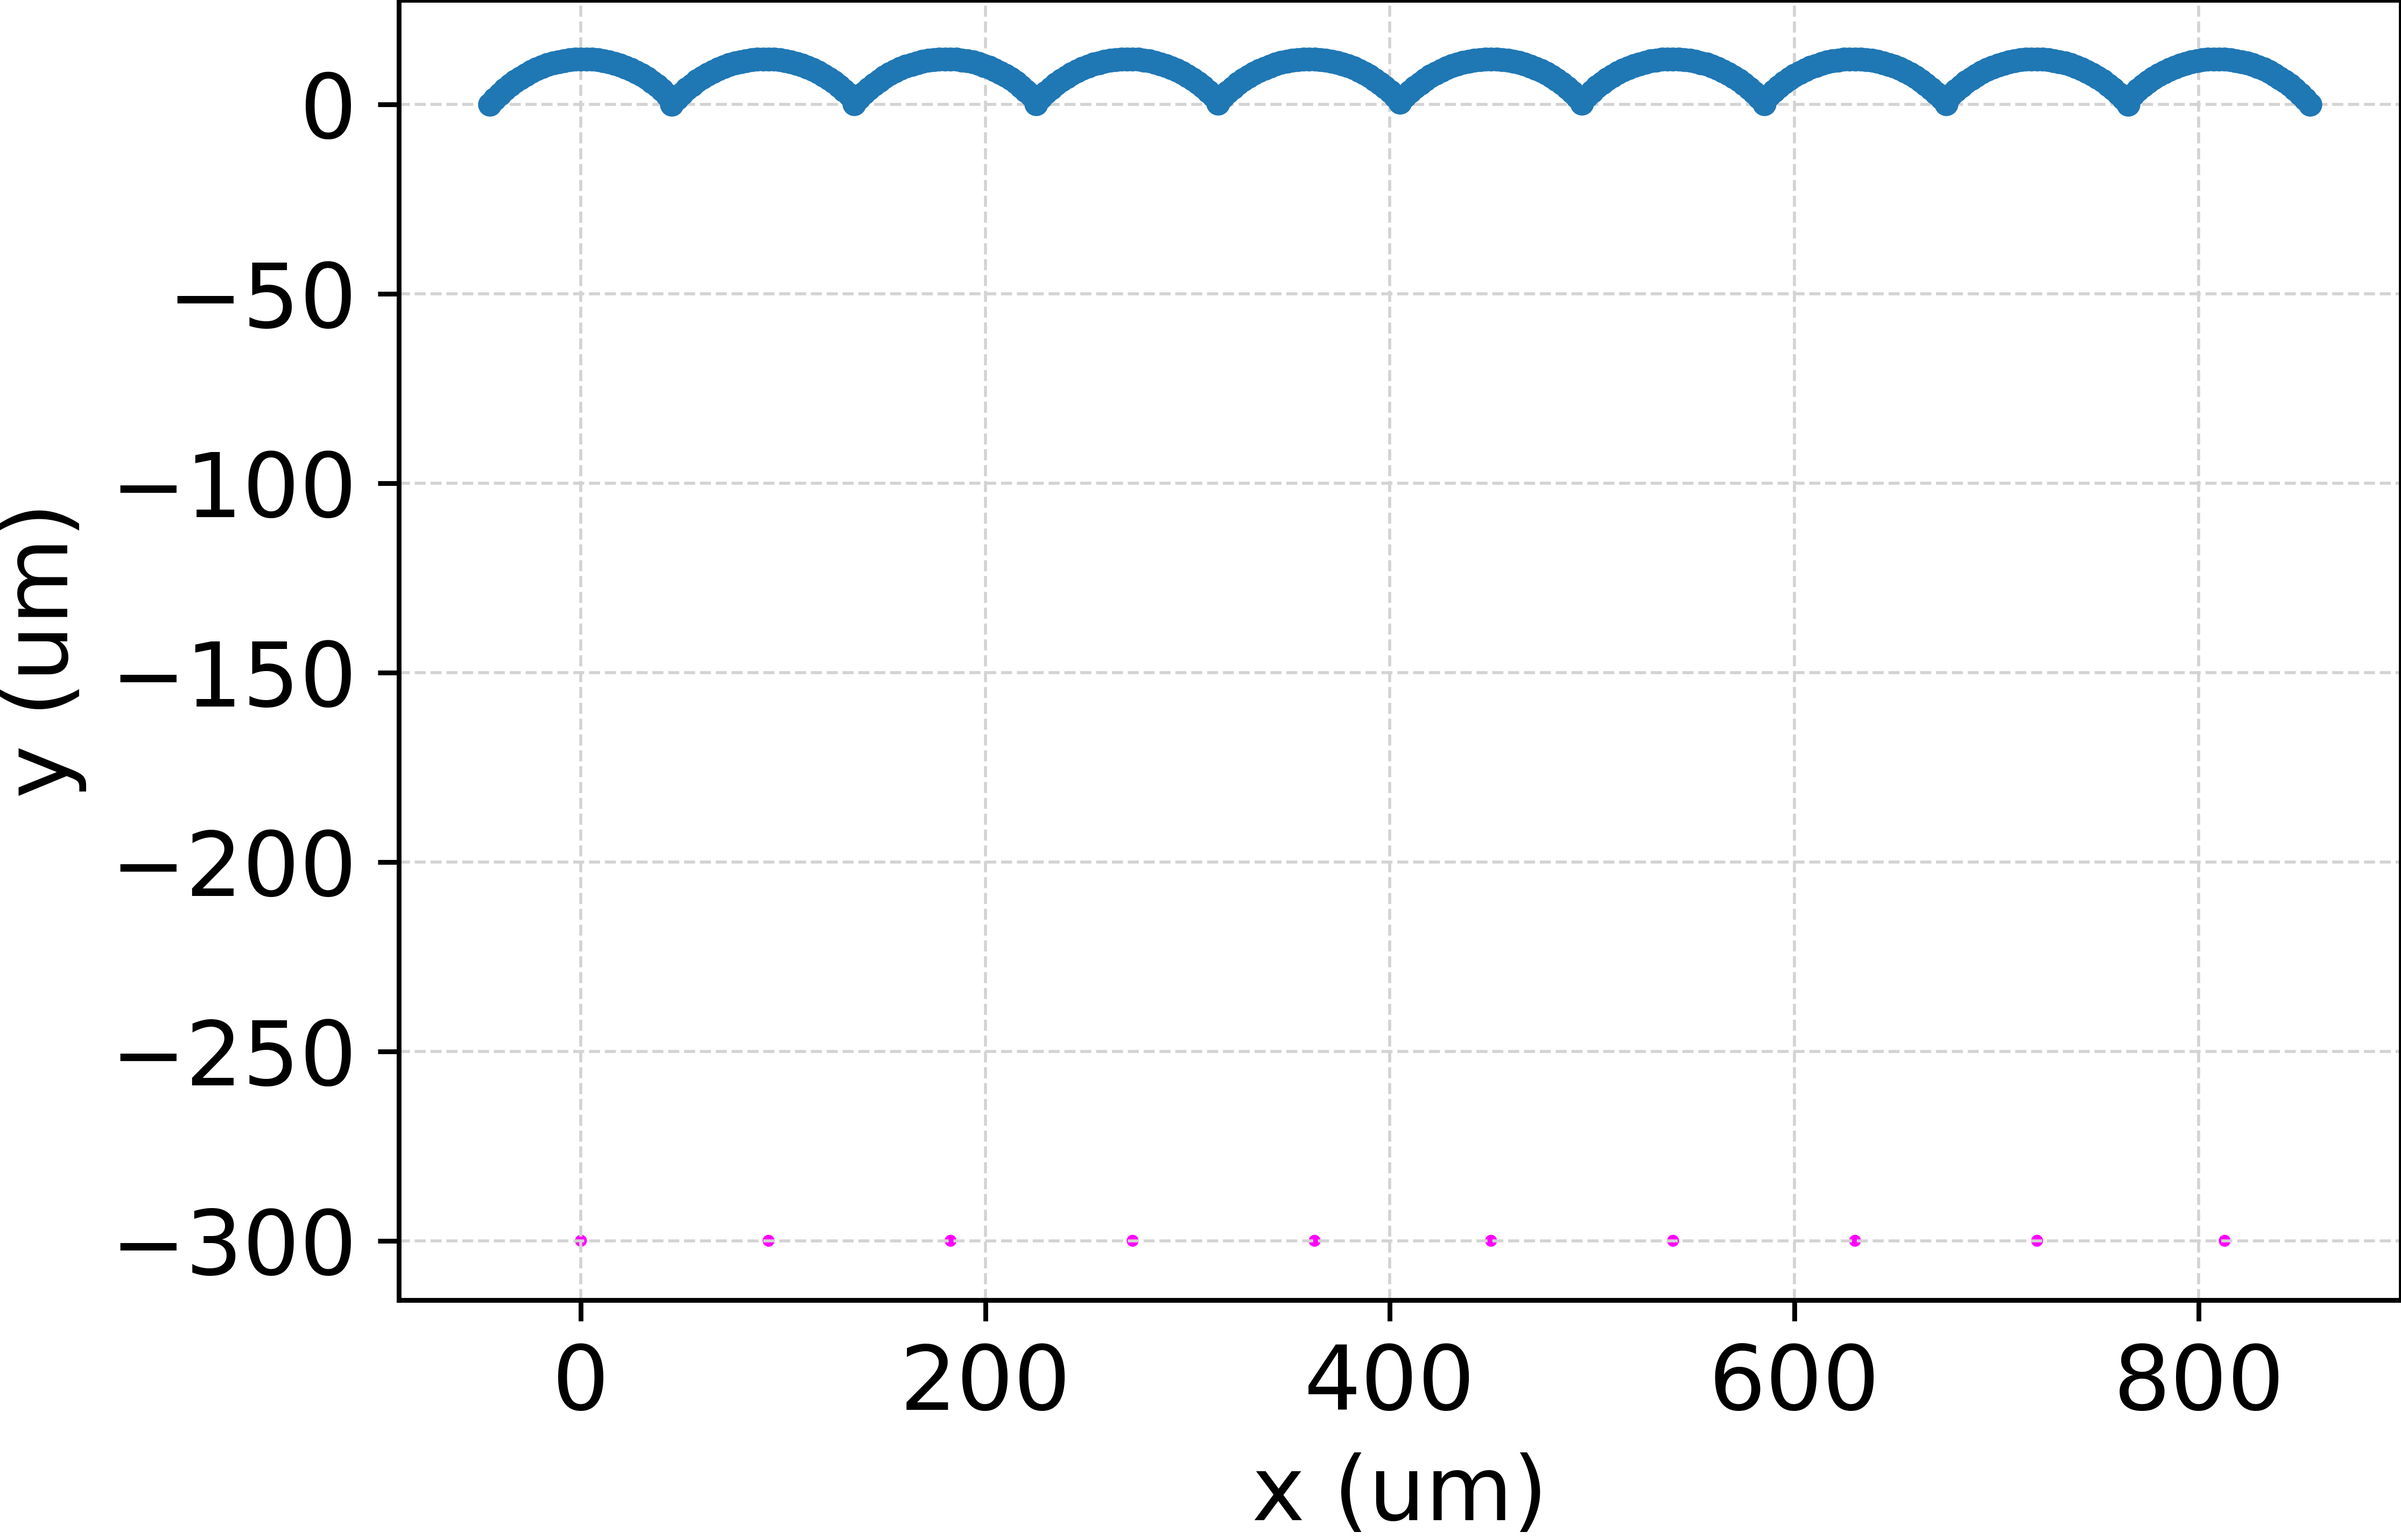
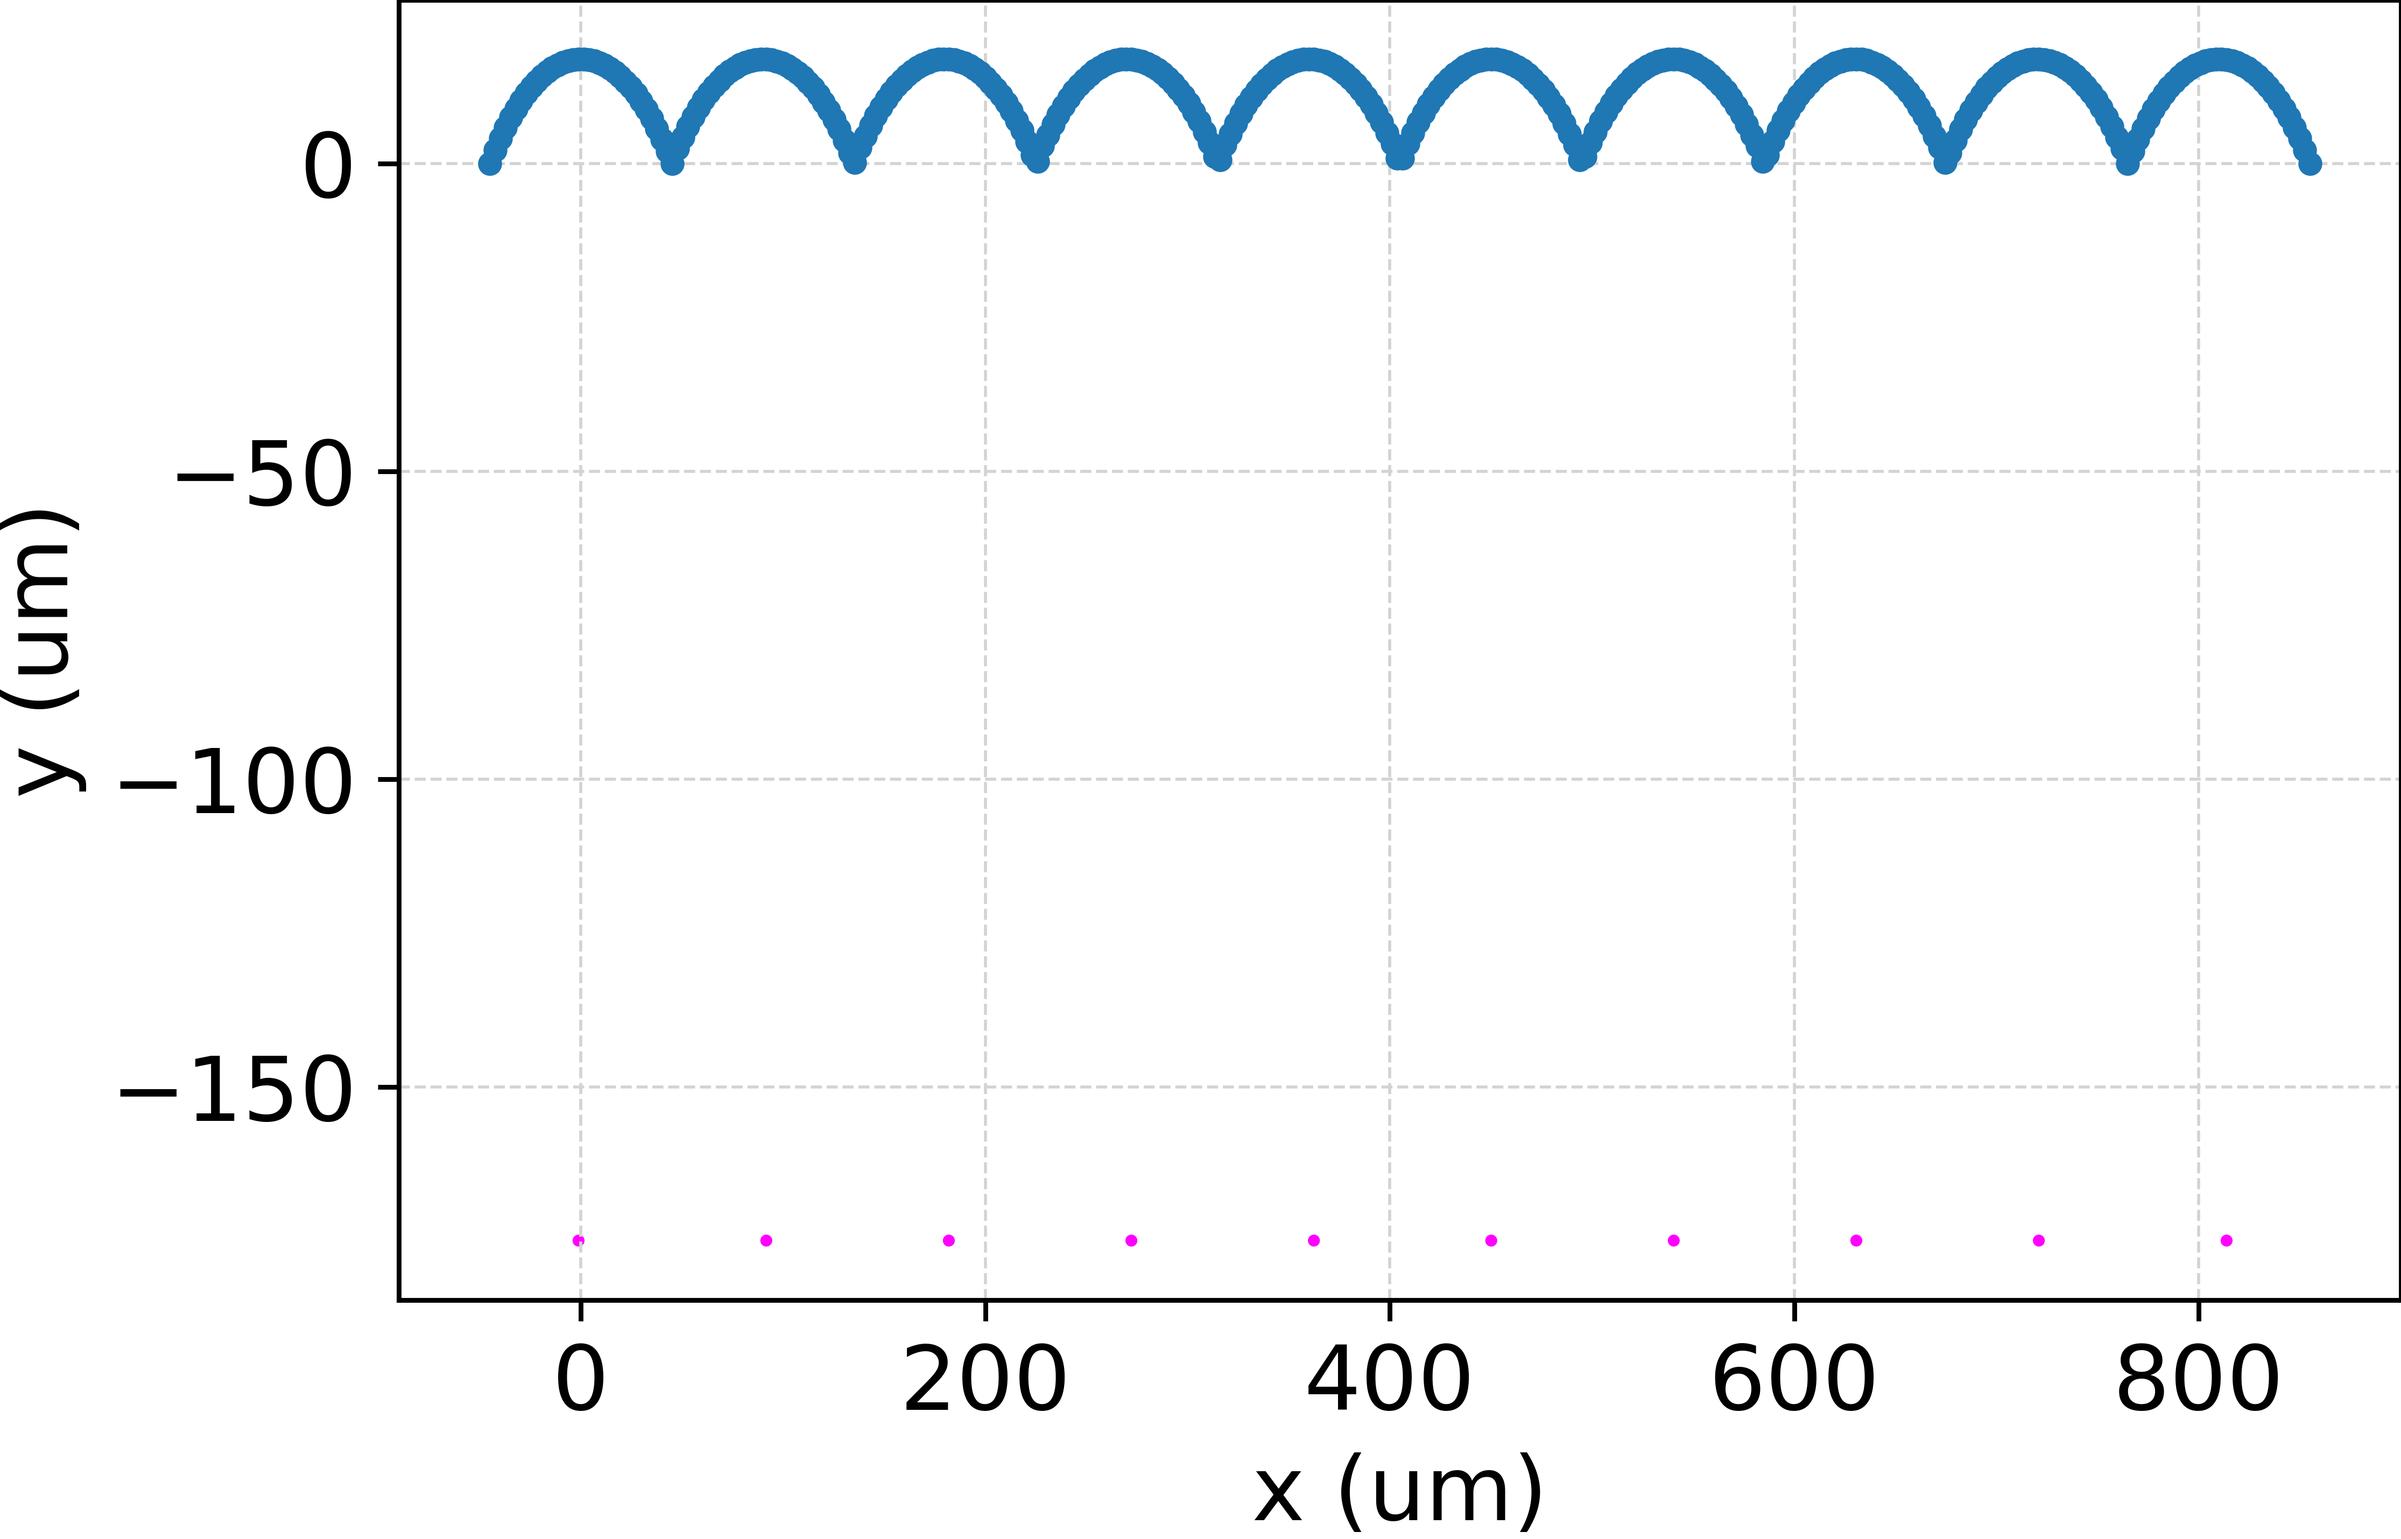
ok_to_github_05032021

diff --git a/plotting_functions.py b/plotting_functions.py
@@ -1,7 +1,6 @@
 from libraries_import import *
-"""
-############ show detection of lens position ############
-if plotting_experimental==1:
+
+def plot_profile(X,Y):
     
     f1 = plt.figure()
     Font_SIZE = 15
@@ -15,94 +14,11 @@ if plotting_experimental==1:
     
     plt.xlabel('x (um)')
     plt.ylabel('y (um)')
-    plt.plot(X_lens0, Y_lens0, '.')
-    plt.plot(X_lens0, Ylens_peak, '.')
-    plt.plot(X_lens0[peakind], Ylens_peak[peakind], '*')
-    
-    
+    plt.plot(X, Y, '.')
+
     x1,x2,y1,y2 = plt.axis()
     #plt.axis((T_grid_min,T_grid_max,y1,90))
     plt.grid(color='lightgrey', linestyle='--', linewidth=0.5)
     
     plt.show()
 
-######################################################
-
-############ show detection of hollow position ############
-
-if plotting_experimental==1:
-    
-    f2 = plt.figure()
-    Font_SIZE = 15
-    plt.rc('font', size=Font_SIZE)          # controls default text sizes
-    plt.rc('axes', titlesize=Font_SIZE)     # fontsize of the axes title
-    plt.rc('axes', labelsize=Font_SIZE)    # fontsize of the x and y labels
-    plt.rc('xtick', labelsize=Font_SIZE)    # fontsize of the tick labels
-    plt.rc('ytick', labelsize=Font_SIZE)    # fontsize of the tick labels
-    plt.rc('legend', fontsize=Font_SIZE)    # legend fontsize
-    plt.rc('figure', titlesize=Font_SIZE)  # fontsize of the figure title
-    
-    plt.xlabel('x (um)')
-    plt.ylabel('y (um)')
-    plt.plot(X_lens0, Y_lens0, '.')
-    #plt.plot(X_lens0, Ylens_peak, '.')
-    plt.plot(X_lens0[hollow_ind], Y_lens0[hollow_ind], '*')
-    
-    
-    x1,x2,y1,y2 = plt.axis()
-    #plt.axis((T_grid_min,T_grid_max,y1,90))
-    plt.grid(color='lightgrey', linestyle='--', linewidth=0.5)
-    
-    plt.show()
-    
-if plotting_experimental==1:
-    
-   
-    f2 = plt.figure()
-    Font_SIZE = 15
-    plt.rc('font', size=Font_SIZE)          # controls default text sizes
-    plt.rc('axes', titlesize=Font_SIZE)     # fontsize of the axes title
-    plt.rc('axes', labelsize=Font_SIZE)    # fontsize of the x and y labels
-    plt.rc('xtick', labelsize=Font_SIZE)    # fontsize of the tick labels
-    plt.rc('ytick', labelsize=Font_SIZE)    # fontsize of the tick labels
-    plt.rc('legend', fontsize=Font_SIZE)    # legend fontsize
-    plt.rc('figure', titlesize=Font_SIZE)  # fontsize of the figure title
-    
-    plt.xlabel('x (um)')
-    plt.ylabel('y (um)')
-    plt.plot(X_lens, Ylens_peak, '.')
-    #plt.plot(X_lens0, Ylens_peak, '.')
-    plt.plot(X_lens[peakind], Ylens_peak[peakind], '*')
-    
-    x1,x2,y1,y2 = plt.axis()
-    #plt.axis((T_grid_min,T_grid_max,y1,90))
-    plt.grid(color='lightgrey', linestyle='--', linewidth=0.5)
-    
-    plt.show()
-    
-    color_def=color_def[~np.all(color_def == 0, axis=1)]
-    color_matrix=np.array(color_def[:,0].astype(int))
-    colors = np.array([(1, 1, 0), (0, 1, 1), (1, 0, 1),(0.5,0.5,0.5)])
-    f2 = plt.figure()
-    Font_SIZE = 15
-    plt.rc('font', size=Font_SIZE)          # controls default text sizes
-    plt.rc('axes', titlesize=Font_SIZE)     # fontsize of the axes title
-    plt.rc('axes', labelsize=Font_SIZE)    # fontsize of the x and y labels
-    plt.rc('xtick', labelsize=Font_SIZE)    # fontsize of the tick labels
-    plt.rc('ytick', labelsize=Font_SIZE)    # fontsize of the tick labels
-    plt.rc('legend', fontsize=Font_SIZE)    # legend fontsize
-    plt.rc('figure', titlesize=Font_SIZE)  # fontsize of the figure title
-    
-    plt.xlabel('x (um)')
-    plt.ylabel('y (um)')
-    plt.plot(X_lens, Y_lens, '.')
-    x_vect=np.ones(len(y_grid))
-   
-    plt.scatter(color_def[:,3], color_def[:,4], s=1, c=colors[color_matrix])
-    
-    x1,x2,y1,y2 = plt.axis()
-    #plt.axis((T_grid_min,T_grid_max,y1,90))
-    plt.grid(color='lightgrey', linestyle='--', linewidth=0.5)
-    f2.savefig('measured_conf_{0}.png'.format(name_file), dpi=800, bbox_inches='tight', pad_inches=0)
-    plt.show()
-"""

diff --git a/ray_tracing_main.py b/ray_tracing_main.py
@@ -23,7 +23,7 @@ n=n_air/n_PC
 ### input variable for the theoretical lens profile (choose_data=0)
 
 lens_period=90 # pitch between two lenses
-lens_heigth=12 # heigth of the lens (cylindrical profile)
+lens_heigth=17 # heigth of the lens (cylindrical profile)
 nb_lens=10 # number of lens to be computed
 
 ### input variable for the experimental lens profile (choose_data=1)
@@ -40,7 +40,7 @@ x_crop_max=15000 #x stop for the profile calculation
 
 ### variables to drive the software parts
 
-choose_data=1# 0 generate a theoretical lens array, 1 interpolate an experimental lens array, other number don't calculate again
+choose_data=0# 0 generate a theoretical lens array, 1 interpolate an experimental lens array, other number don't calculate again
 lamination_plate=0 # sometimes we want to check the difference between plates profile and actual laminated lens (it just flip the data along y-axis)
 calculation=1 # calculate only when the lens profile and the calculation points are set up
 plotting_experimental=0
@@ -57,7 +57,7 @@ range_angle=np.linspace(-out_angle_lim,out_angle_lim,split_out_angle)
 
 PSF=1
 dist_center=0 # position the PSF emiter at a certain distance from the center of the lens (e.g: 10 => 10 µm from the lens center axis)
-nb_step=20 # discretization of the PSF
+nb_step=25 # discretization of the PSF
 y_top_PSF=100
 y_bottom_PSF=300
 
@@ -73,6 +73,7 @@ if choose_data==0:
 if choose_data==1:
     x_grid, y_grid, F, Y_lens, peakind,nb_lens_real,lens_period_mean=Interp_profile_exp(file_path,x_crop_min,x_crop_max,expected_width,filter_detect_peak,lamination_plate,split_lens,n_PC)
 
+plot_profile(x_grid,y_grid)
 #%% Experimental plot of the lens profiles
 #if plotting_experimental==1:
 X_lens=x_grid    
@@ -132,7 +133,7 @@ for idx, nb_step_calculation_points in enumerate(z_depth):
     x1,x2,y1,y2 = plt.axis()
     #plt.axis((T_grid_min,T_grid_max,y1,90))
     plt.grid(color='lightgrey', linestyle='--', linewidth=0.5)
-    f2.savefig('measured_conf_{0}.png'.format(name_file), dpi=800, bbox_inches='tight', pad_inches=0)
+    #f2.savefig('measured_conf_{0}.png'.format(name_file), dpi=800, bbox_inches='tight', pad_inches=0)
     plt.show()
     #%% Calculation (forward ray tracing vectors calculation)
     

diff --git a/lens_profile_interpolation.py b/lens_profile_interpolation.py
@@ -94,7 +94,7 @@ def Interp_profile_theo(lens_period,lens_heigth,n_PC,nb_lens,split_lens):
     # estimate the lens pitch
     lens_period=round(lens_period_mean)
     ###### experimental lens profile ######
-    return X_lens0, Y_lens0,F,Y_lens,peakind,nb_lens_real,lens_period_mean
+    return X_lens, Y_lens0,F,Y_lens,peakind,nb_lens_real,lens_period_mean
 
 def Interp_profile_exp(file_path,x_crop_min,x_crop_max,expected_width,filter_detect_peak,lamination_plate,split_lens,n_PC):
         
@@ -213,4 +213,4 @@ def Interp_profile_exp(file_path,x_crop_min,x_crop_max,expected_width,filter_det
         plt.show()
     
     
-        return X_lens0, Y_lens0, F, Y_lens, peakind,nb_lens_real,lens_period_mean
+        return X_lens, Y_lens0, F, Y_lens, peakind,nb_lens_real,lens_period_mean
